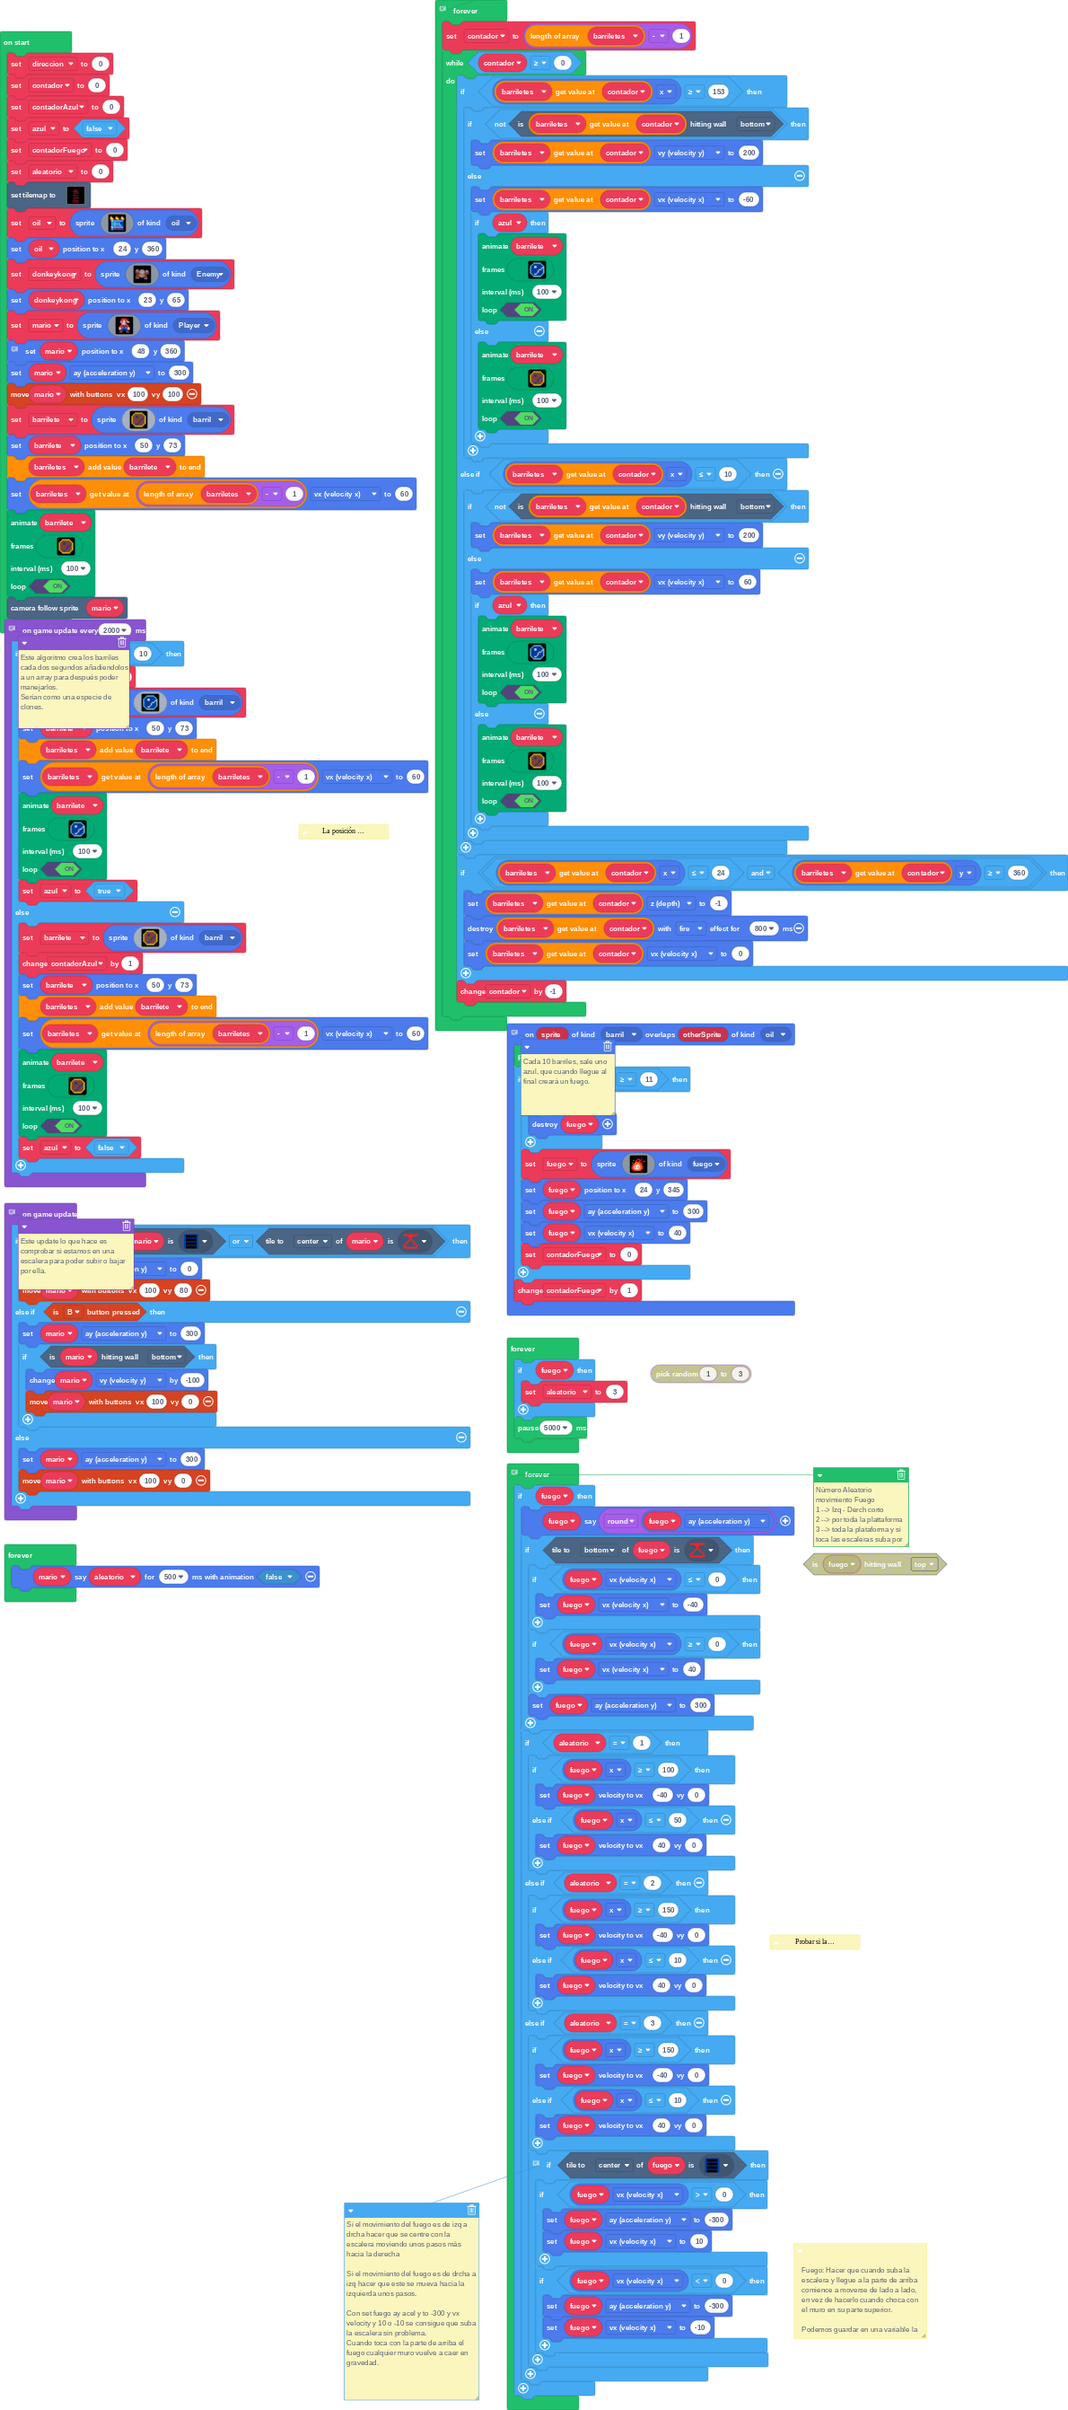
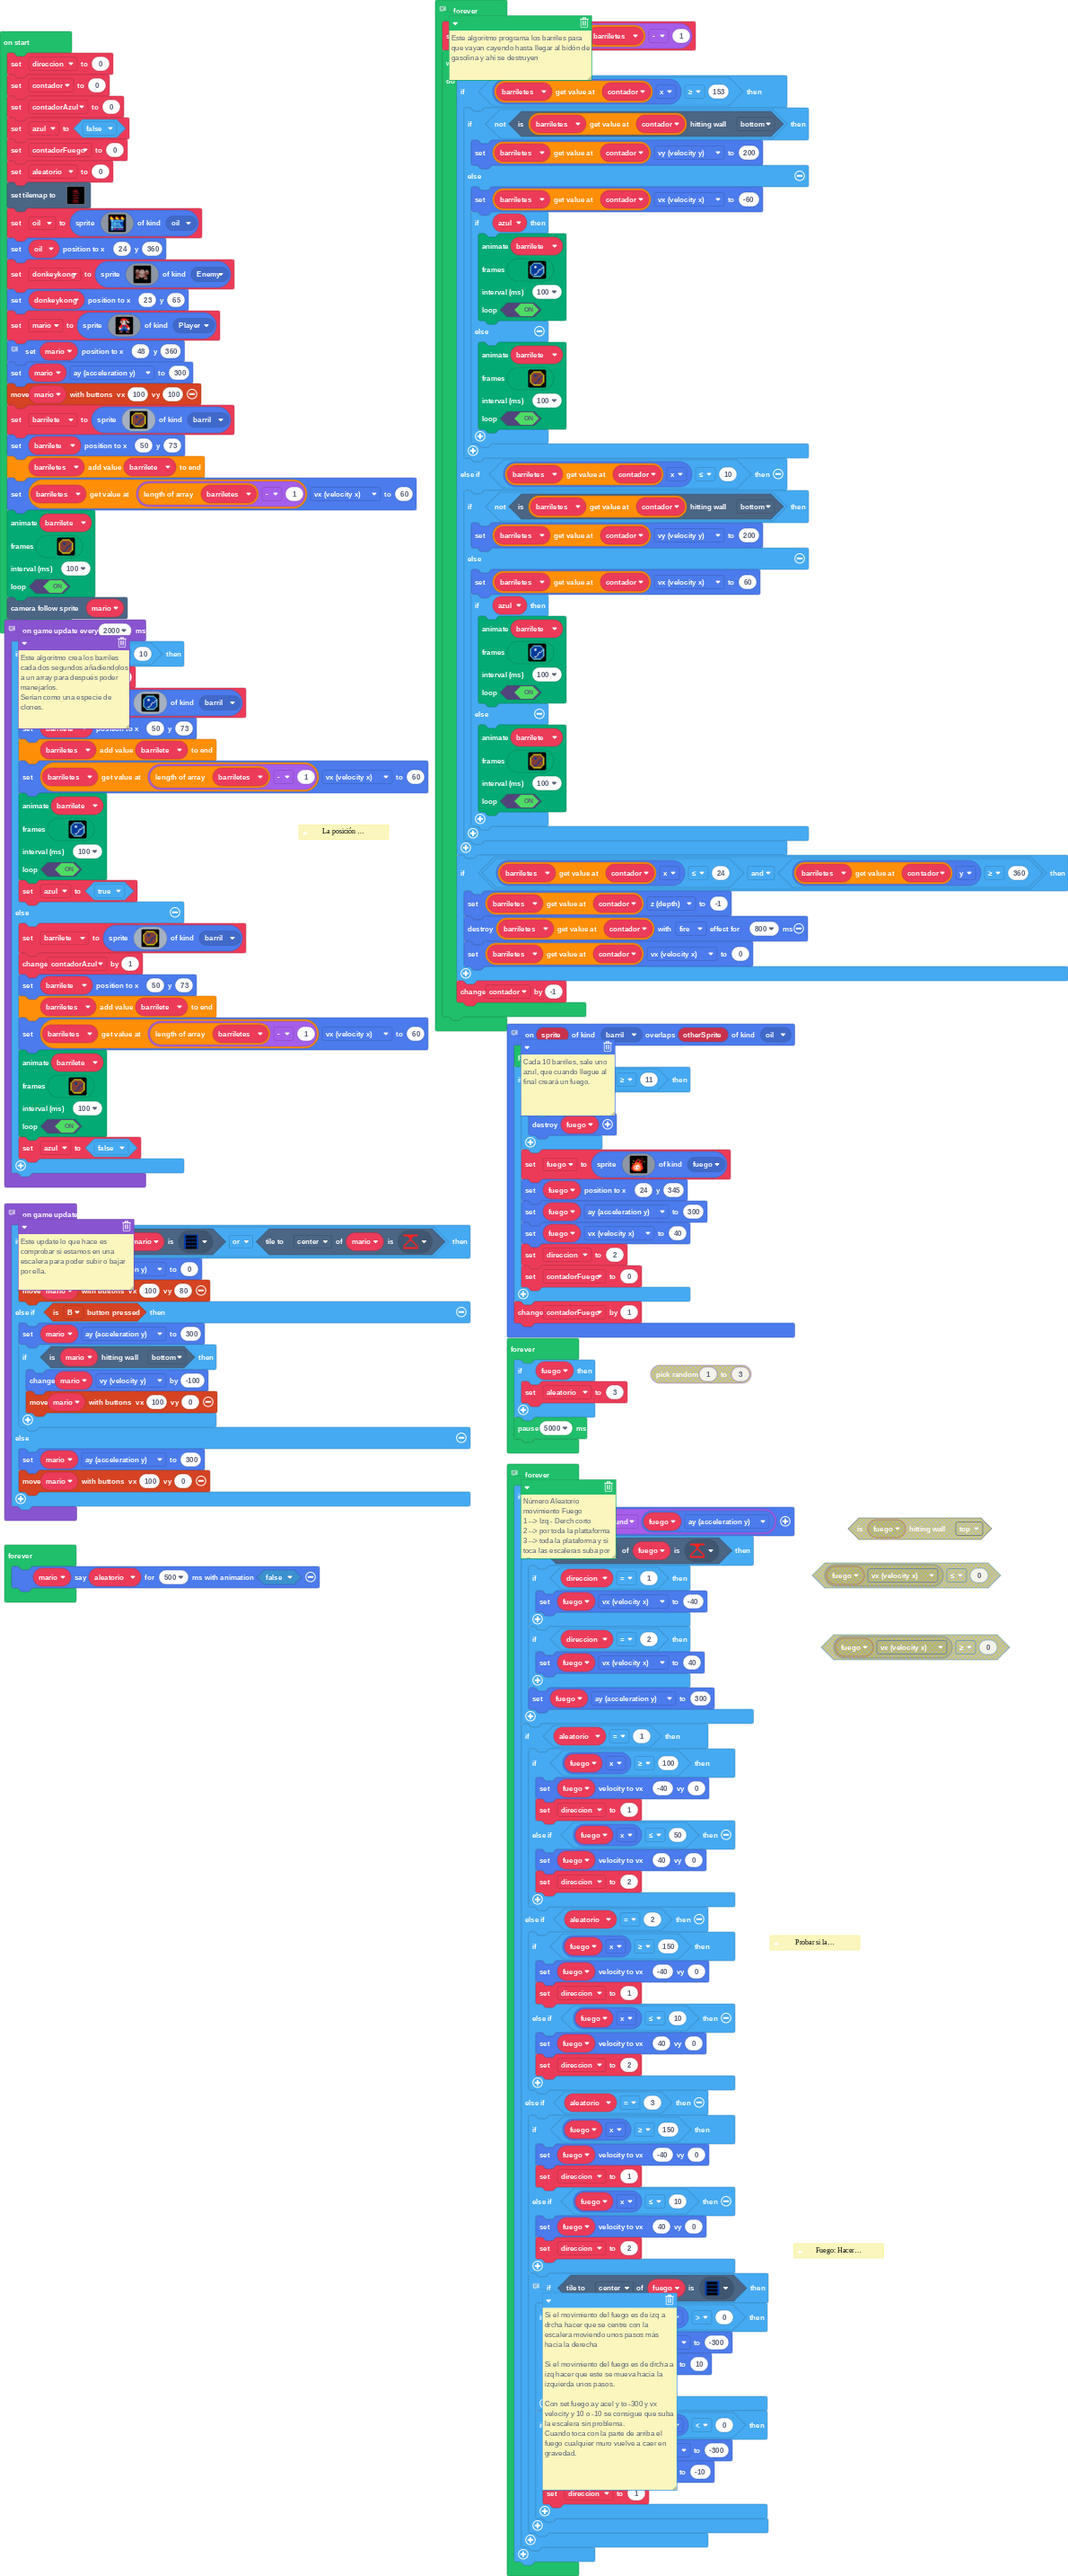
Conseguido que el fuego siga siempre el mismo camino al subir las escaleras.

diff --git a/main.ts b/main.ts
@@ -15,6 +15,7 @@ sprites.onOverlap(SpriteKind.barril, SpriteKind.oil, function (sprite, otherSpri
         fuego.setPosition(24, 345)
         fuego.ay = 300
         fuego.vx = 40
+        direccion = 2
         contadorFuego = 0
     }
     contadorFuego += 1
@@ -23,6 +24,7 @@ let fuego: Sprite = null
 let barriletes: Sprite[] = []
 let contadorFuego = 0
 let direccion = 0
+direccion = 0
 let contador = 0
 let contadorAzul = 0
 let azul = false
@@ -191,10 +193,10 @@ forever(function () {
     if (fuego) {
         fuego.sayText(Math.round(fuego.ay))
         if (fuego.tileKindAt(TileDirection.Bottom, assets.tile`viga`)) {
-            if (fuego.vx <= 0) {
+            if (direccion == 1) {
                 fuego.vx = -40
             }
-            if (fuego.vx >= 0) {
+            if (direccion == 2) {
                 fuego.vx = 40
             }
             fuego.ay = 300
@@ -202,20 +204,26 @@ forever(function () {
         if (aleatorio == 1) {
             if (fuego.x >= 100) {
                 fuego.setVelocity(-40, 0)
+                direccion = 1
             } else if (fuego.x <= 50) {
                 fuego.setVelocity(40, 0)
+                direccion = 2
             }
         } else if (aleatorio == 2) {
             if (fuego.x >= 150) {
                 fuego.setVelocity(-40, 0)
+                direccion = 1
             } else if (fuego.x <= 10) {
                 fuego.setVelocity(40, 0)
+                direccion = 2
             }
         } else if (aleatorio == 3) {
             if (fuego.x >= 150) {
                 fuego.setVelocity(-40, 0)
+                direccion = 1
             } else if (fuego.x <= 10) {
                 fuego.setVelocity(40, 0)
+                direccion = 2
             }
             // Si el movimiento del fuego es de izq a drcha hacer que se centre con la escalera moviendo unos pasos más hacia la derecha
             // 
@@ -229,10 +237,12 @@ forever(function () {
                 if (fuego.vx > 0) {
                     fuego.ay = -300
                     fuego.vx = 10
+                    direccion = 2
                 }
                 if (fuego.vx < 0) {
                     fuego.ay = -300
                     fuego.vx = -10
+                    direccion = 1
                 }
             }
         }
